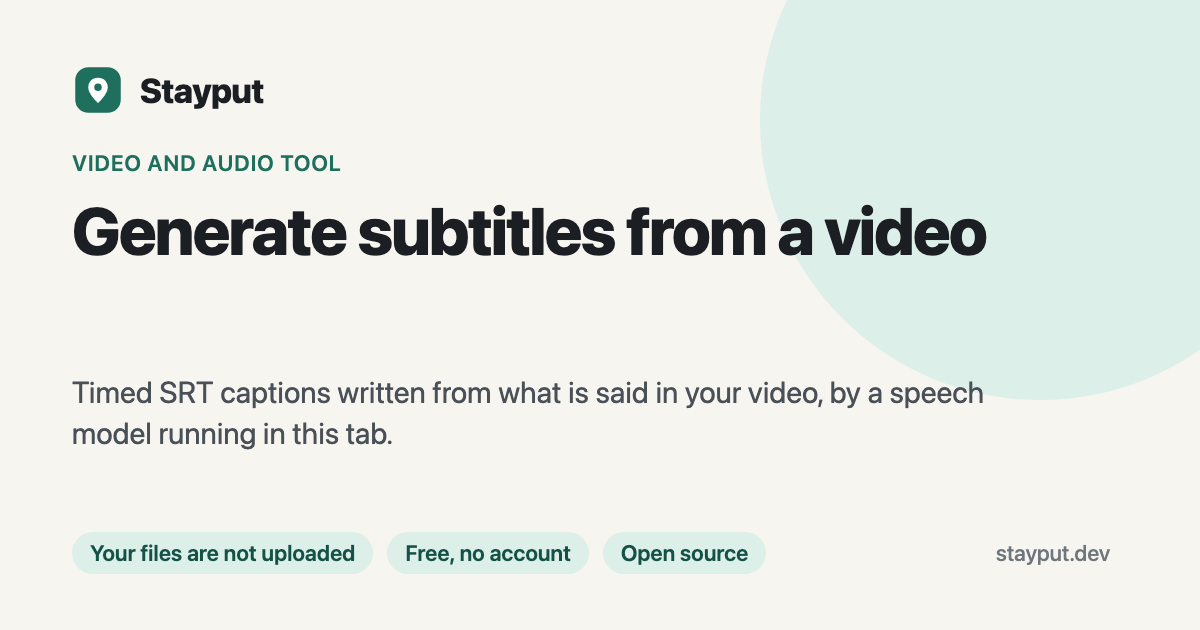
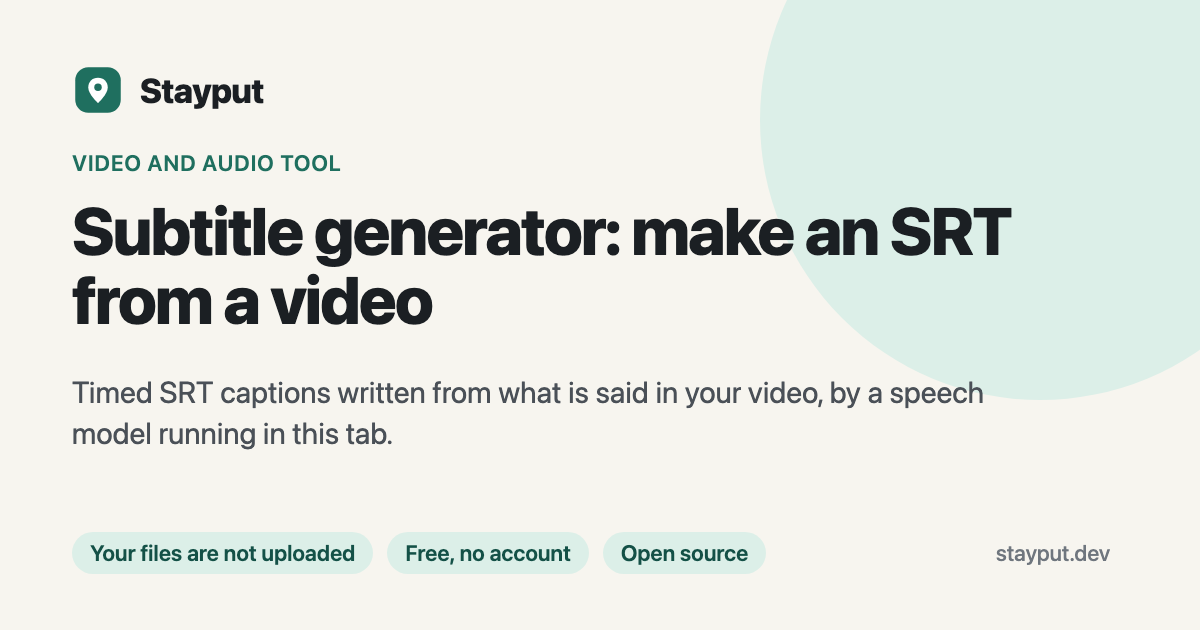
Retitle the transcribe, subtitle and add-subtitles pages; add Audio to text and Video to text presets

Changed region(s): [[0.0617, 0.3317, 0.8633, 0.5127]]

diff --git a/src/data/presets.ts b/src/data/presets.ts
@@ -4441,9 +4441,9 @@ export const presets: Preset[] = [
       'Makes an SRT subtitle file, or WebVTT captions, from the speech in an MP4, MOV or WebM video (or an audio file) with Whisper, in 16 or more languages. It is free, and your files are not uploaded: only the soundtrack is read, and the speech model runs in your browser. The first run downloads the speech model (76 MB), and after that it works offline.',
     base: 'transcribe',
     name: 'Video to subtitles',
-    title: 'Generate Subtitles from Video: Free SRT Maker, No Upload | Stayput',
+    title: 'Subtitle Generator: Auto SRT Subtitles from Video, Free, No Upload | Stayput',
     description: 'Make an SRT subtitle file from the speech in an MP4, MOV or WebM video with Whisper running on your device. Ready for YouTube, Premiere, Resolve and VLC. No upload.',
-    heading: 'Generate subtitles from a video',
+    heading: 'Subtitle generator: make an SRT from a video',
     tagline: 'Timed SRT captions written from what is said in your video, by a speech model running in this tab.',
     keywords: ['srt generator', 'generate subtitles from video', 'video to srt', 'auto subtitle generator', 'create subtitles for video', 'subtitle maker free'],
     accept: 'video/*,audio/*,.mp4,.mov,.m4v,.webm,.mkv,.mp3,.wav,.m4a',
@@ -4464,6 +4464,8 @@ export const presets: Preset[] = [
       { q: 'Does it burn the subtitles into the video?', a: 'No. It makes a separate SRT file that players and platforms show as captions viewers can turn on or off. Keeping them separate also means you can correct a word without exporting the video again. To draw them into the picture instead, use Add subtitles to video.' },
       { q: 'Can I get English subtitles for a video in another language?', a: 'Yes: choose Translate to English. Whisper translates into English only, so for subtitles in other languages, transcribe in the spoken language instead.' },
       { q: 'What about WebVTT?', a: 'Choose Web captions (.vtt) for an HTML5 video element’s track, or for players that ask for WebVTT. The timing is the same; only the file format differs.' },
+      { q: 'Can I get plain text instead of subtitles?', a: 'Yes. Choose Text (.txt) here, or use [Video to text](/video-to-text), which is set up for a recorded lecture or meeting and gives paragraphs rather than timed captions. The general [transcribe](/tools/transcribe) tool offers all three formats.' },
+      { q: 'Can I burn the subtitles into the picture or add them to a video?', a: 'Yes, with [Add subtitles to video](/tools/add-subtitles-to-video), which writes the words from the speech and draws them into every frame, or with [Burn subtitles into video](/burn-subtitles-into-video) if you already have the SRT. Both save a new video.' },
       { q: 'Is my video uploaded?', a: 'No. Only its soundtrack is read, in this tab, and the speech model runs on your device. Unreleased footage and private recordings stay with you.' },
     ],
   },
@@ -4493,6 +4495,72 @@ export const presets: Preset[] = [
       { q: 'Is there a length limit?', a: 'No fixed limit. Long recordings take proportionally longer, and very long ones (several hours) need a device with plenty of memory, since the whole recording is decoded first.' },
       { q: 'Why is my transcript missing punctuation or names?', a: 'Whisper adds punctuation itself, but mumbling, crosstalk and unusual names trip it up. Clear audio from a microphone close to the speaker gives the best result.' },
       { q: 'Will it work offline?', a: 'After the first run, yes: the page and the speech model are stored by your browser, so you can transcribe on a plane.' },
+      { q: 'What if my recording is not an MP3?', a: 'It still works: WAV, M4A, OGG, FLAC and other audio files are read the same way. [Audio to text](/audio-to-text) is the same tool set up for recorder files, meetings and lectures, and the general [transcribe](/tools/transcribe) tool also takes video.' },
+      noUpload,
+    ],
+  },
+  {
+    slug: 'audio-to-text',
+    base: 'transcribe',
+    name: 'Audio to text',
+    title: 'Audio to Text: Transcribe Any Audio File Privately, Free | Stayput',
+    description: 'Turn a WAV, OGG, FLAC, M4A or MP3 recording into text in your browser. Whisper transcribes on your device, so meetings and lectures are not uploaded. No minute limit.',
+    heading: 'Audio to text',
+    tagline: 'Meetings, lectures and recorder files turned into readable text on this device, with no upload.',
+    keywords: ['audio to text', 'audio to text converter', 'transcribe audio file', 'wav to text', 'recording to text', 'transcribe audio free'],
+    accept: 'audio/*,.mp3,.m4a,.wav,.wave,.aac,.ogg,.oga,.opus,.flac,.webm',
+    dropLabel: 'Drop audio files to transcribe',
+    action: 'Transcribe',
+    defaults: { format: 'txt' },
+    intro: [
+      'Audio recorders, meeting apps and phones all save sound in different formats: WAV from a handheld recorder, OGG or Opus from a chat app, FLAC from a lossless capture, M4A from a phone. This page reads all of them and writes out what is said as paragraphs of plain text you can search, quote and paste into your notes. For a single MP3 or a voice memo, [MP3 to text](/mp3-to-text) is the same tool with that case in mind.',
+      'A worked example: a one-hour team meeting saved as a WAV by a recorder on the table. Drop it here with the language left on Detect. The sound is decoded in the tab, cut at pauses into pieces, and each piece is transcribed by Whisper on your device. A paragraph break falls wherever there was a pause of two seconds or more, which usually lands where someone else starts talking. It does not label who is speaking, so add names when you read it through.',
+      'The first run downloads the speech model (76 MB) from this site, once; after that it works offline. Because the model runs in your browser, the recording is not uploaded: a client call, a patient dictation or a source interview stays on your device. Long recordings take proportionally longer and need memory, since the whole recording is decoded first.',
+      'If the recording is a video, such as a recorded lecture or a Zoom MP4, use [Video to text](/video-to-text). For timed captions instead of plain text, choose Subtitles (.srt) on the general [transcribe](/tools/transcribe) tool.',
+    ],
+    steps: [
+      'Drop one or more audio files: WAV, OGG, FLAC, M4A, MP3 and more.',
+      'Leave the language on Detect, or pick it for short or noisy recordings.',
+      'Press Transcribe, then copy the text or download it as a .txt file.',
+    ],
+    faq: [
+      { q: 'Which audio formats does it read?', a: 'MP3, WAV, M4A, AAC, OGG, Opus and FLAC, plus WebM audio. A video file works too, on [Video to text](/video-to-text).' },
+      { q: 'Is there a length limit?', a: 'No fixed limit. Long recordings take proportionally longer, and very long ones (several hours) need a device with plenty of memory, since the whole recording is decoded first.' },
+      { q: 'Does it work offline?', a: 'After the first run, yes: the page and the speech model (76 MB) are stored by your browser, so you can transcribe without a connection.' },
+      { q: 'Can it translate the recording?', a: 'Into English only. Choose Translate to English for a foreign-language recording; for text in the spoken language, leave it off. It does not translate into other languages.' },
+      { q: 'Does it say who is speaking?', a: 'No. It writes what is said, not who said it. Long pauses start a new paragraph, which usually falls where the speaker changes.' },
+      noUpload,
+    ],
+  },
+  {
+    slug: 'video-to-text',
+    base: 'transcribe',
+    name: 'Video to text',
+    title: 'Video to Text: Transcribe an MP4 Privately, Free, No Upload | Stayput',
+    description: 'Turn an MP4, MOV or WebM video into text in your browser. Whisper reads the soundtrack on your device, so a lecture or Zoom recording is not uploaded.',
+    heading: 'Video to text',
+    tagline: 'The speech in a video written out as paragraphs of text, by a model running in this tab.',
+    keywords: ['video to text', 'mp4 to text', 'video to text converter', 'free video transcription', 'transcribe mp4', 'zoom recording to text'],
+    accept: 'video/*,.mp4,.mov,.m4v,.webm,.mkv',
+    dropLabel: 'Drop a video to turn into text',
+    action: 'Transcribe',
+    defaults: { format: 'txt' },
+    intro: [
+      'A recorded lecture, a Zoom call, a screen recording of a demo: the words are in the video, but finding the one you need means watching it all. This page reads the soundtrack of the video and writes what is said as paragraphs of plain text you can search, quote and paste into your notes.',
+      'A worked example: a 50-minute lecture saved from Zoom as an MP4. Drop it here with the language left on Detect. Only the soundtrack is decoded, in the tab; the picture is never touched. The speech is cut at pauses into pieces and transcribed by Whisper on your device, and a new paragraph starts wherever there was a pause of two seconds or more. Copy it, or download it as a .txt file.',
+      'The first run downloads the speech model (76 MB) from this site, once; after that it works offline. The video is not uploaded. Long videos take proportionally longer and need memory, since the whole soundtrack is decoded first. For timed captions instead of plain text, use [Video to subtitles](/video-to-subtitles); for sound-only files, [Audio to text](/audio-to-text); for the sound itself, [Video to MP3](/tools/video-to-mp3).',
+    ],
+    steps: [
+      'Drop the video: MP4, MOV, M4V, WebM or MKV.',
+      'Leave the language on Detect, or pick it for short or noisy recordings.',
+      'Press Transcribe, then copy the text or download it as a .txt file.',
+    ],
+    faq: [
+      { q: 'Which video files does it read?', a: 'MP4, MOV, M4V, WebM and MKV, as long as your browser can play the sound track. For audio-only files use [Audio to text](/audio-to-text).' },
+      { q: 'Is there a length limit?', a: 'No fixed limit. Long videos take proportionally longer, and very long ones (several hours) need a device with plenty of memory, since the whole soundtrack is decoded first.' },
+      { q: 'Does it work offline?', a: 'After the first run, yes: the page and the speech model (76 MB) are stored by your browser, so you can transcribe without a connection.' },
+      { q: 'Can I get subtitles instead of plain text?', a: 'Yes. Use [Video to subtitles](/video-to-subtitles) for an SRT or WebVTT file timed to the speech.' },
+      { q: 'Does it say who is speaking?', a: 'No. It writes what is said, not who said it. Long pauses start a new paragraph, which usually falls where the speaker changes.' },
       noUpload,
     ],
   },
@@ -4526,6 +4594,7 @@ export const presets: Preset[] = [
       { q: 'Which look reads best on a phone?', a: 'White with a black edge works on most footage. On busy or bright backgrounds such as snow, sky or a white kitchen, the dark band keeps every word readable. Yellow is the traditional choice for subtitles over film and stands out on grey or blue scenes.' },
       { q: 'Does it do word-by-word animated captions?', a: 'No. Each caption shows a phrase of one or two lines for as long as it is spoken, like TV subtitles. Animated, word-highlighting styles need an editing app.' },
       { q: 'Can it caption a video in another language?', a: 'Yes. The language is detected from the first seconds, or you can choose it. Tick Translate the speech to English for English captions on a video in another language.' },
+      { q: 'Can I get a separate subtitle file instead?', a: 'Yes. [Video to subtitles](/video-to-subtitles) is a subtitle generator that makes an SRT or WebVTT file from the speech, without touching the video.' },
       { q: 'Is my video uploaded?', a: 'No. The speech is transcribed and the frames are redrawn in this tab. Unposted clips, family videos and client footage stay on your device.' },
     ],
   },
@@ -4558,6 +4627,7 @@ export const presets: Preset[] = [
       { q: 'What if I do not have a subtitle file?', a: 'Drop only the video and the subtitles are written from the speech by a model running in this tab. To check the words first, tick Also save the subtitles as an SRT file, correct it, and run again with the fixed file.' },
       { q: 'Can I keep the subtitles as a track viewers can turn off instead?', a: 'Not here: this page draws them into the picture. Players such as VLC load an SRT with the same name as the video, and YouTube accepts the SRT as an upload in Studio.' },
       { q: 'Which subtitle formats work?', a: 'SRT and WebVTT (.vtt). ASS and SSA files with positioned or animated styles are not read; convert them to SRT in a subtitle editor first.' },
+      { q: 'How do I make the SRT file in the first place?', a: 'Use [Video to subtitles](/video-to-subtitles): it writes an SRT from the speech in the video, which you can correct and then burn in here.' },
       { q: 'Is my video uploaded?', a: 'No. The subtitle file is read and the video re-encoded by your browser, on your device. Neither file leaves it.' },
     ],
   },

diff --git a/tests/tools.spec.ts b/tests/tools.spec.ts
@@ -1050,8 +1050,26 @@ test('preset landing pages render, run their base tool with the preset options a
       await expect(page.locator('#delay')).toHaveValue('1');
       await expect(page.locator('#width')).toHaveValue('640');
     }],
-    ['video-to-subtitles', 'transcribe', async () => expect(page.locator('#format')).toHaveValue('srt')],
+    ['video-to-subtitles', 'transcribe', async () => {
+      await expect(page.locator('#format')).toHaveValue('srt');
+      await expect(page).toHaveTitle('Subtitle Generator: Auto SRT Subtitles from Video, Free, No Upload | Stayput');
+      await expect(page.locator('h1')).toHaveText('Subtitle generator: make an SRT from a video');
+    }],
     ['mp3-to-text', 'transcribe', async () => expect(page.locator('#format')).toHaveValue('txt')],
+    ['audio-to-text', 'transcribe', async () => {
+      await expect(page.locator('#format')).toHaveValue('txt');
+      await expect(page).toHaveTitle('Audio to Text: Transcribe Any Audio File Privately, Free | Stayput');
+      const accept = await page.locator('#file-input').getAttribute('accept');
+      for (const ext of ['.wav', '.ogg', '.flac', '.m4a', '.mp3']) expect(accept).toContain(ext);
+      expect(accept).not.toContain('.mp4');
+    }],
+    ['video-to-text', 'transcribe', async () => {
+      await expect(page.locator('#format')).toHaveValue('txt');
+      await expect(page).toHaveTitle('Video to Text: Transcribe an MP4 Privately, Free, No Upload | Stayput');
+      const accept = await page.locator('#file-input').getAttribute('accept');
+      for (const ext of ['video/*', '.mp4', '.mov', '.m4v', '.webm', '.mkv']) expect(accept).toContain(ext);
+      expect(accept).not.toContain('.mp3');
+    }],
     ['auto-caption-video', 'add-subtitles-to-video', async () => expect(page.locator('input[name="size"][value="large"]')).toBeChecked()],
     ['burn-subtitles-into-video', 'add-subtitles-to-video', async () => expect(page.locator('input[name="look"][value="box"]')).toBeChecked()],
     ['karaoke-maker', 'vocal-remover', async () => expect(page.locator('#stems')).toHaveValue('instrumental')],
@@ -1130,6 +1148,35 @@ test('preset landing pages render, run their base tool with the preset options a
     expect((await page.request.get(`/og/${slug}.png`)).status(), `og image for ${slug}`).toBe(200);
     await check();
     expect(errors, slug).toEqual([]);
+  }
+});
+
+test('the transcription pages carry their search titles and link to each other', async ({ page }) => {
+  await stubAnalytics(page);
+  const titles: [string, string][] = [
+    ['/tools/transcribe', 'Transcribe Video to Text: Free, Private, No Upload | Stayput'],
+    ['/tools/add-subtitles-to-video', 'Add Subtitles or Captions to a Video: Burned In, No Upload | Stayput'],
+  ];
+  for (const [path, title] of titles) {
+    await page.goto(path);
+    await expect(page, path).toHaveTitle(title);
+  }
+  await page.goto('/tools/transcribe');
+  await expect(page.getByText('Can I turn a video into text?')).toHaveCount(1);
+  const links: [string, string[]][] = [
+    ['/tools/transcribe', ['/video-to-text', '/audio-to-text', '/video-to-subtitles']],
+    ['/video-to-subtitles', ['/tools/transcribe', '/video-to-text', '/tools/add-subtitles-to-video']],
+    ['/mp3-to-text', ['/audio-to-text', '/tools/transcribe']],
+    ['/audio-to-text', ['/mp3-to-text', '/video-to-text', '/tools/transcribe']],
+    ['/video-to-text', ['/audio-to-text', '/video-to-subtitles', '/tools/transcribe', '/tools/video-to-mp3']],
+    ['/tools/voice-recorder', ['/audio-to-text']],
+    ['/tools/video-to-mp3', ['/video-to-text']],
+    ['/burn-subtitles-into-video', ['/video-to-subtitles']],
+    ['/auto-caption-video', ['/video-to-subtitles']],
+  ];
+  for (const [path, hrefs] of links) {
+    await page.goto(path);
+    for (const href of hrefs) await expect(page.locator(`main a[href="${href}"]`).first(), `${path} → ${href}`).toBeAttached();
   }
 });
 

diff --git a/src/data/tools.ts b/src/data/tools.ts
@@ -1099,6 +1099,10 @@ export const tools: Tool[] = [
         q: 'Can I get a WAV instead?',
         a: 'Yes. Choose WAV and you get uncompressed 16-bit, 44.1 kHz audio, the format audio editors and some upload forms ask for. It is about ten times the size of an MP3.',
       },
+      {
+        q: 'Do I need the audio if I only want the words?',
+        a: 'No. To get the speech as text, drop the video straight on [Video to text](/video-to-text): it reads the soundtrack itself, so you do not have to extract the audio first.',
+      },
     ],
   },
   {
@@ -1837,6 +1841,10 @@ export const tools: Tool[] = [
       {
         q: 'Is there a time limit?',
         a: 'No. The recording is held in memory until you save it; an hour of speech is only a few tens of megabytes. Saving a very long recording as MP3 takes a little while, and WAV is fastest.',
+      },
+      {
+        q: 'Can I turn the recording into text?',
+        a: 'Yes. Save it, then drop the file on [Audio to text](/audio-to-text): a speech model running in your browser writes it out, and the recording is not uploaded.',
       },
     ],
   },
@@ -2744,7 +2752,7 @@ export const tools: Tool[] = [
   {
     slug: 'transcribe',
     name: 'Transcribe audio to text',
-    title: 'Transcribe Audio and Video to Text or Subtitles, Private | Stayput',
+    title: 'Transcribe Video to Text: Free, Private, No Upload | Stayput',
     description:
       'Turn speech in an MP3, WAV, M4A, MP4 or MOV into text, SRT subtitles or WebVTT captions with Whisper running on your device. 16+ languages, no upload, no account.',
     heading: 'Transcribe audio and video to text',
@@ -2781,12 +2789,16 @@ export const tools: Tool[] = [
         q: 'Does it tell speakers apart?',
         a: 'No. It writes what is said, not who said it. Long pauses start a new paragraph in the text version, which usually falls where the speaker changes.',
       },
+      {
+        q: 'Can I turn a video into text?',
+        a: 'Yes. Drop an MP4, MOV, M4V, MKV or WebM file and choose Text (.txt): only the soundtrack is read, in this tab, and the video is not uploaded. For a recorded lecture or a Zoom MP4 there is a page set up for it, [Video to text](/video-to-text). For timed captions instead of paragraphs, use [Video to subtitles](/video-to-subtitles); for sound-only files, [Audio to text](/audio-to-text).',
+      },
     ],
   },
   {
     slug: 'add-subtitles-to-video',
     name: 'Add subtitles to video',
-    title: 'Add Subtitles to Video: Auto Captions Burned In, No Upload | Stayput',
+    title: 'Add Subtitles or Captions to a Video: Burned In, No Upload | Stayput',
     description:
       'Burn captions into an MP4, MOV or WebM: written from the speech by Whisper on your device, or from your own SRT or VTT file. Three looks, no watermark, no upload.',
     heading: 'Add subtitles to a video',

diff --git a/src/data/guides.ts b/src/data/guides.ts
@@ -3104,7 +3104,7 @@ export const guides: Guide[] = [
     heading: 'How to transcribe audio to text',
     dek: 'Every platform has a way to turn speech into text now, at very different prices. Here is what each one offers, and a free option that never uploads the recording.',
     keywords: ['how to transcribe audio to text', 'transcribe audio to text free', 'transcribe audio to text iphone', 'how to transcribe an interview', 'voice memo to text'],
-    updated: '2026-09-30',
+    updated: '2026-10-10',
     tools: ['transcribe', 'video-to-subtitles', 'mp3-to-text'],
     sections: [
       {
@@ -3134,7 +3134,7 @@ export const guides: Guide[] = [
       {
         h: 'Transcribing without uploading or paying per minute',
         p: [
-          'Stayput\'s [transcribe](/tools/transcribe) tool runs Whisper, OpenAI\'s speech-recognition model, directly in the browser tab: drop an MP3, WAV, M4A, MP4 or MOV file, and the model downloads once and then works entirely on your device. It writes plain text, or timed [SRT subtitles](/video-to-subtitles) and WebVTT captions for a video, in over a dozen languages, with no per-minute cost and no upload of the recording itself.',
+          'Stayput\'s [transcribe](/tools/transcribe) tool runs Whisper, OpenAI\'s speech-recognition model, directly in the browser tab: drop an MP3, WAV, M4A, MP4 or MOV file, and the model downloads once and then works entirely on your device. It writes plain text (see [audio to text](/audio-to-text) and [video to text](/video-to-text)), or timed [SRT subtitles](/video-to-subtitles) and WebVTT captions for a video, in over a dozen languages, with no per-minute cost and no upload of the recording itself.',
           'It does not label who is speaking, and it struggles with the same things every automatic transcriber does: heavy accents, overlapping speech, and specialist terms. For a recording where the wording actually matters, read the result against the audio before using it.',
         ],
       },
